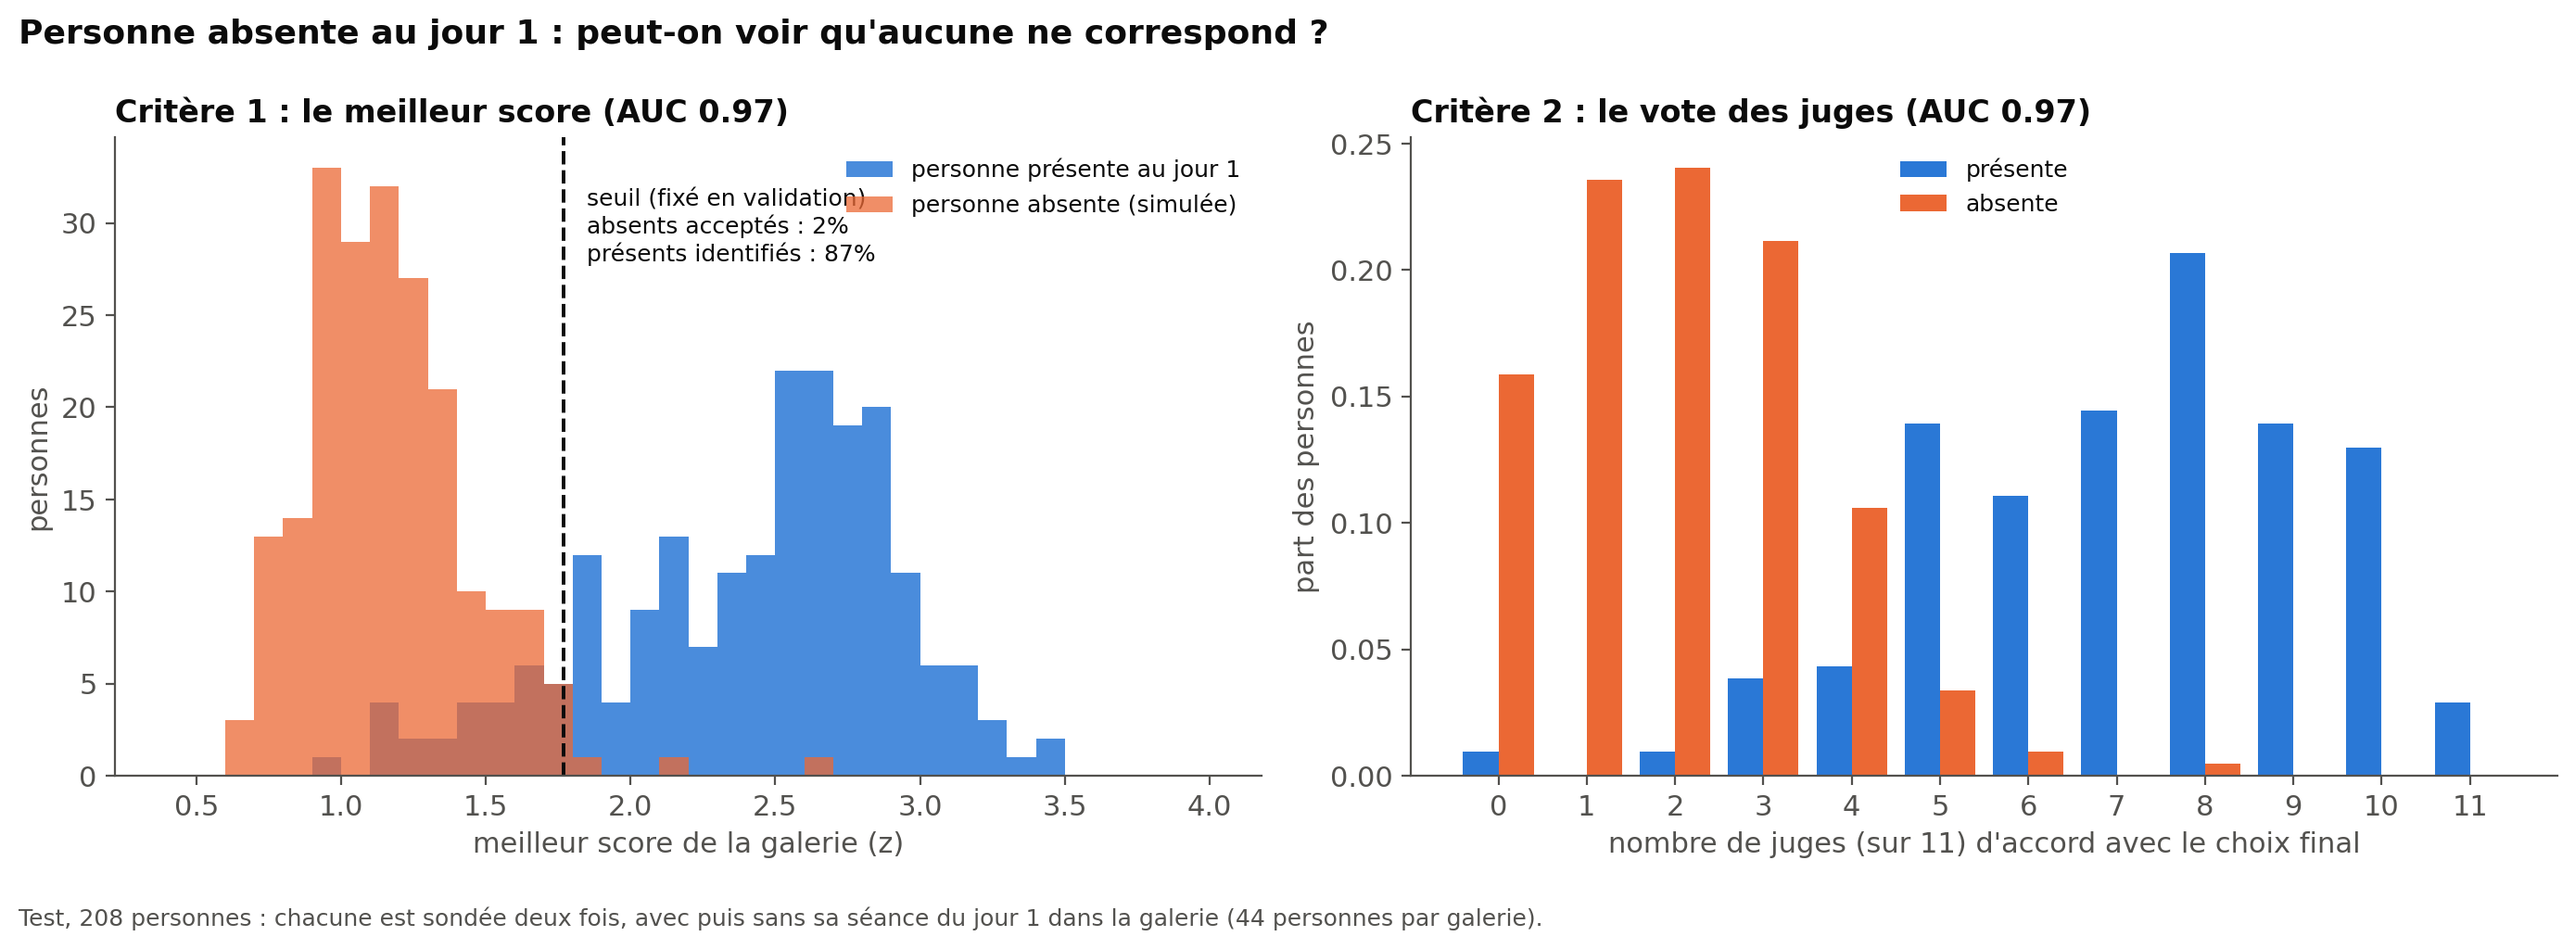
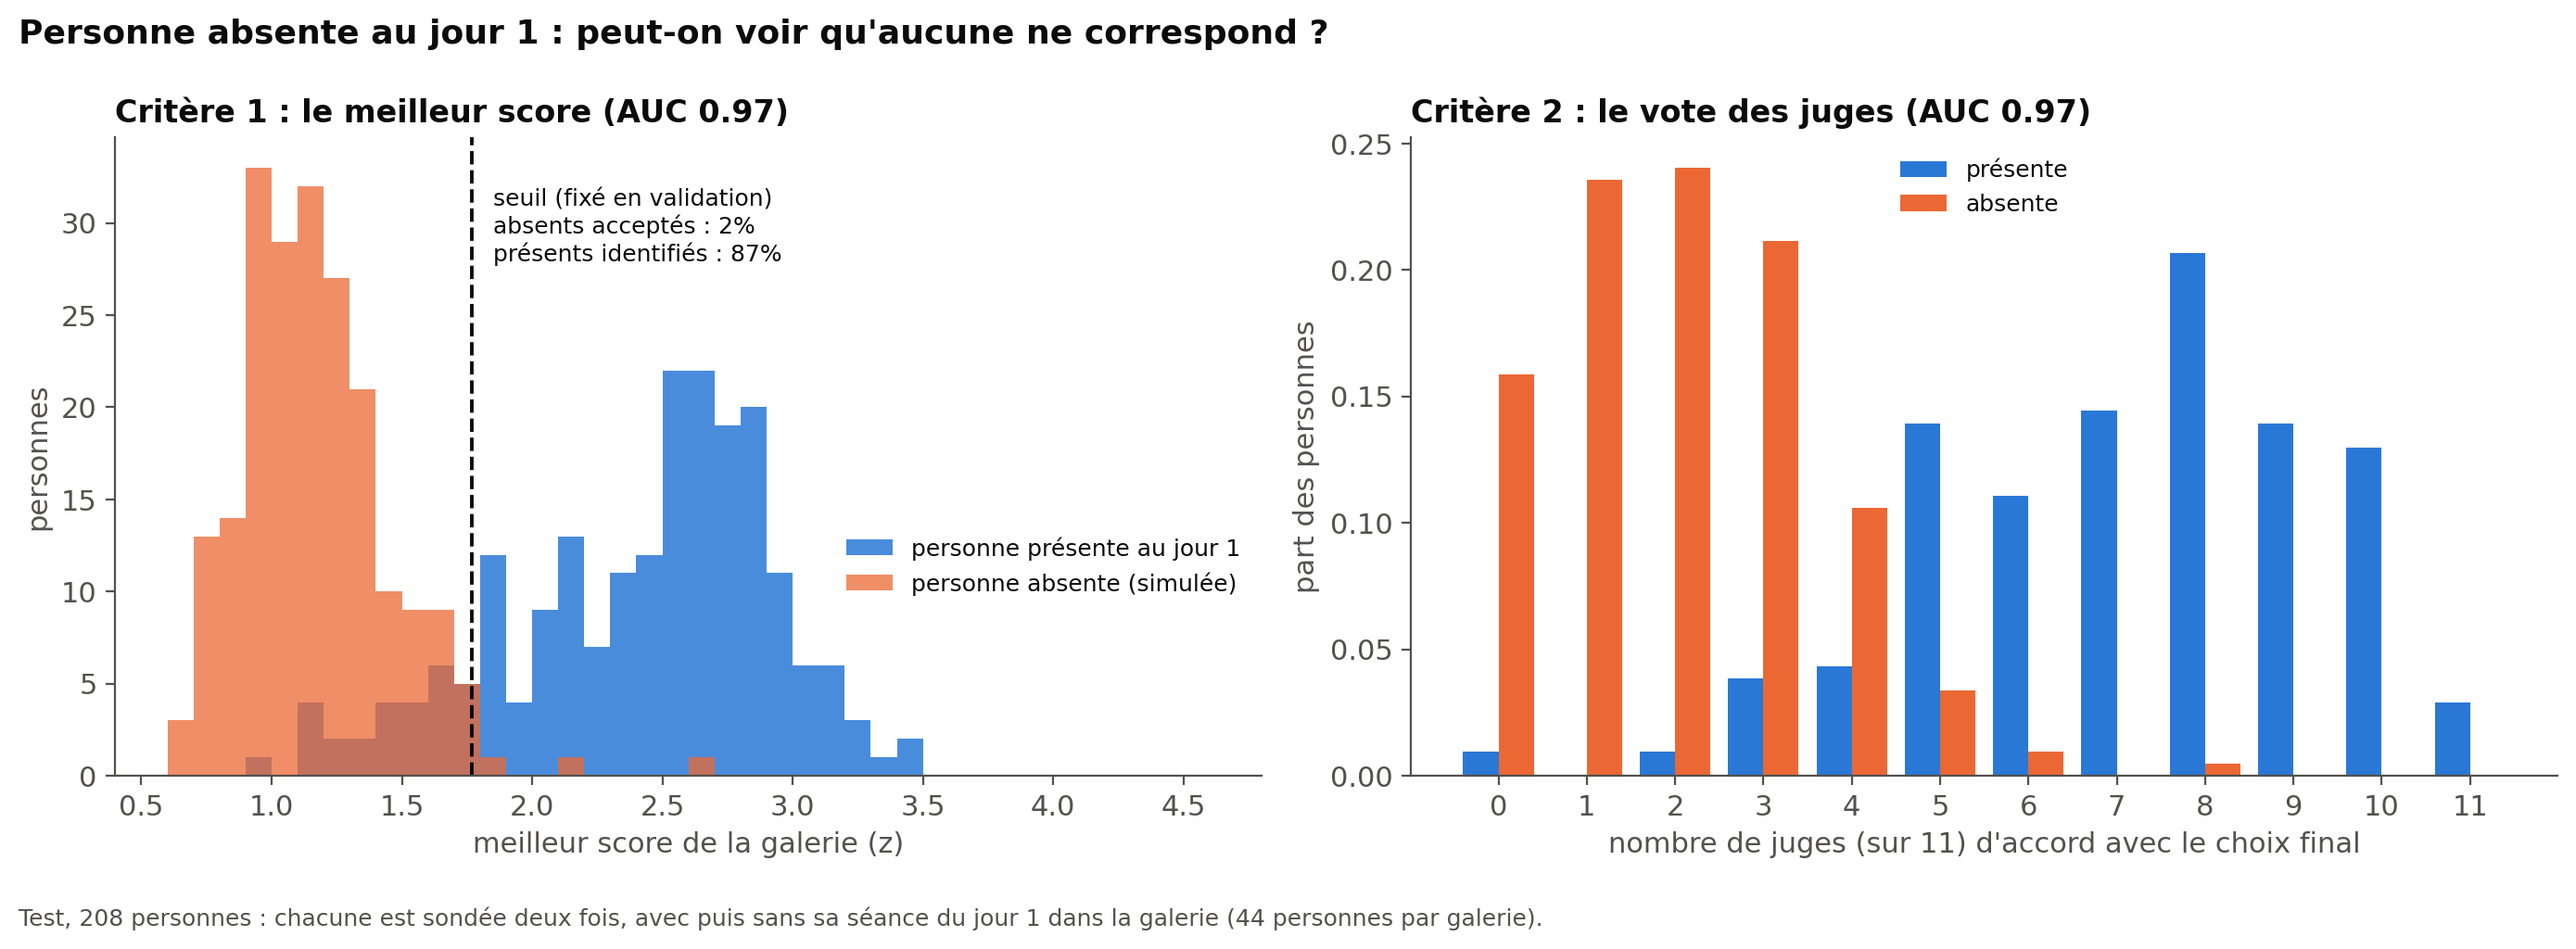
reid(open_set): légende de la figure 08 hors des barres

diff --git a/scripts/reid_slide_figures.py b/scripts/reid_slide_figures.py
@@ -703,7 +703,8 @@ def fig_absent(data, slots) -> None:
     ax.set_xlabel("meilleur score de la galerie (z)")
     ax.set_ylabel("personnes")
     ax.set_title(f"Critère 1 : le meilleur score (AUC {res['top']['auc_test']:.2f})")
-    ax.legend(loc="upper right", fontsize=9)
+    ax.set_xlim(0.4, 4.8)
+    ax.legend(loc="lower right", fontsize=9, bbox_to_anchor=(1, 0.25))
     k = np.arange(len(slots) + 1)
     w = 0.4
     bx.bar(
